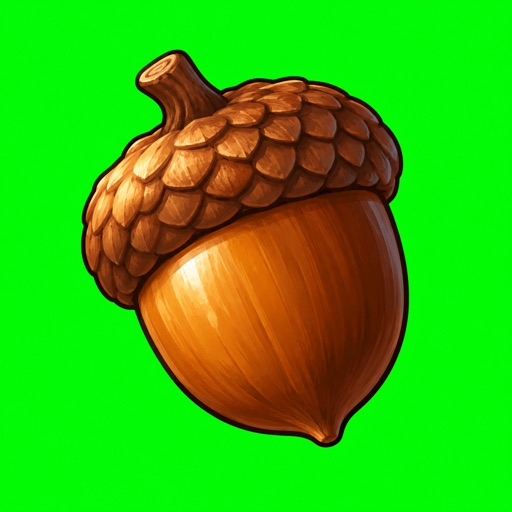
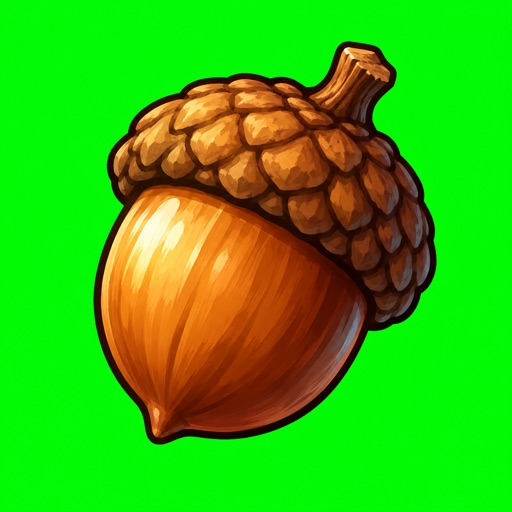
002-runner-check-art: runner commit of uncommitted work

diff --git a/assets/source/A000-runner-check/HANDOFF.md b/assets/source/A000-runner-check/HANDOFF.md
@@ -1,16 +1,17 @@
 # A000 unattended runner check
 
-The built-in image generation tool worked in this unattended run and returned one acorn image without refusal or an approval prompt.
+The built-in image generation tool worked in this unattended run without questions or refusal. Generated one warm painted cartoon acorn with a bold dark outline, upper-left lighting, green background and no ground shadow.
 
 Delivered:
-- `assets/source/A000-runner-check/acorn.png`: 512 × 512 PNG.
-- `docs/screens/A000/acorn.jpg`: 512 × 512 phone copy, JPEG quality 80.
+- `assets/source/A000-runner-check/acorn.png` — resized to 512 × 512 PNG.
+- `docs/screens/A000/acorn.jpg` — 512 × 512 phone copy, JPEG quality 80.
+- This handoff. No other deliverables were requested.
 
-The output was visually checked: one warm painted cartoon acorn, bold dark outline, upper-left lighting, green background, no ground shadow. The generated image was resized to 512 × 512 using macOS sips; the JPEG was exported with sips. This is a runner test, not production art. No additional review sheet, prompt file, or asset registry change was made, as instructed.
+Tool: built-in `image_gen`, followed by `sips` resizing and JPEG conversion.
 
-Tool: built-in `image_gen.imagegen`, opaque background.
+Exact generation prompt:
+> Use case: stylized-concept. Draw one small test game item: a single acorn, centered and fully visible on a square canvas, approximately 512 px. Warm painted cartoon matching a fantasy woodland beat-em-up: rich warm brown nut, textured brown cap with short stem, bold dark outline, simple readable silhouette, hand-painted highlights from upper left. Slight three-quarter view toward the camera. Flat solid exact #00FF00 green background edge to edge. No ground shadow, no other objects, no leaves, no text or watermark.
 
-Exact prompt:
-> Use case: stylized-concept. Create one small square game item test image, about 512 x 512 pixels: a single acorn centered with comfortable margins. Warm painted cartoon style, rich warm brown nut and textured brown cap, bold dark outlines, simple readable silhouette, three-quarter view about 30 degrees toward the camera, slight rightward tilt. Light from upper left. Flat solid exact #00FF00 green background edge to edge. No ground shadow, no extra objects, no face, no text, no border, no watermark.
+Folder check passed; branch remained `a000-runner-check`. Git LFS 3.8.0 is installed. Initial `git status` failed because LFS could not write `.git/lfs/tmp` (operation not permitted), and `git lfs status` failed refreshing the index. Staging the two images subsequently succeeded. No image generation operation was refused or blocked. No questions for the user. No push attempted; the runner handles pushing.
 
-Folder check passed; branch `a000-runner-check` was already checked out. Git LFS 3.8.0 is available. No branch switch, pull, or push was performed. No questions for the user.
+Commit result: blocked by the sandbox. Both staging this handoff and `git commit` failed with `Unable to create .../.git/index.lock: Operation not permitted`. All three requested files are left on disk for the runner to stage and commit.
